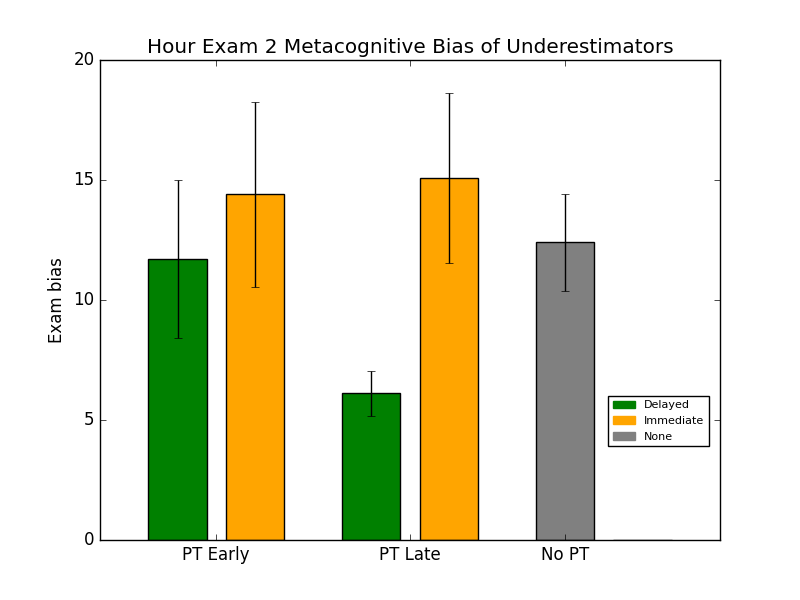
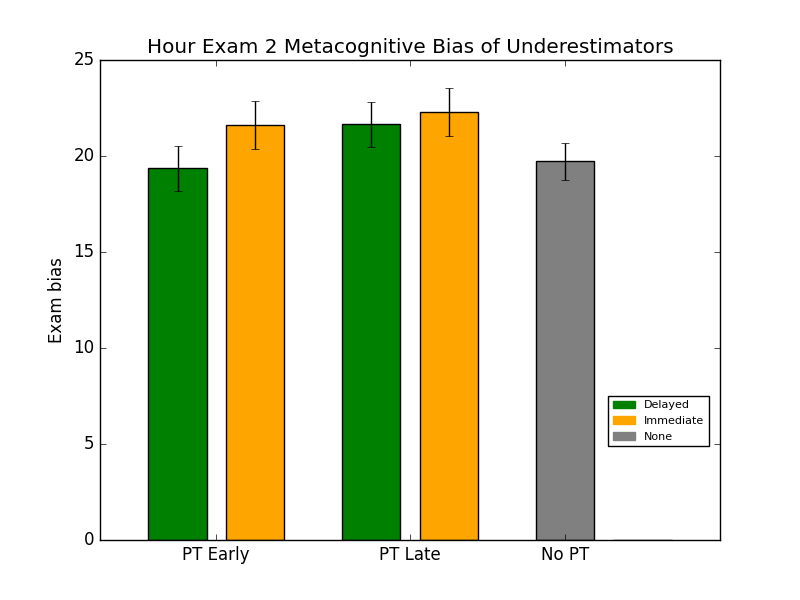
Added filtered results

diff --git a/source/bias_filtered.py b/source/bias_filtered.py
@@ -1,0 +1,143 @@
+import csv  # to read csv files
+import numpy as np  # to use statistics functions
+import matplotlib.pyplot as plt
+import matplotlib.patches as mpatches
+import scipy
+import pandas as pd
+from scipy import stats
+
+# Data
+delayed_feedback_early_bias = []
+delayed_feedback_late_bias = []
+no_feedback_bias = []
+immediate_feeback_early_bias = []
+immediate_feeback_late_bias = []
+
+# Constants
+early_time = -24
+exam2_path = "../data/Sp21_Physics_211_HE2_data.csv"
+exam3_path = "../data/Sp21_Physics_211_HE3_data.csv"
+
+def store_file_data(path): # Opens the CSV Data and Stores the Returns the Data as a List
+	with open(path) as file:
+		reader = csv.reader(file)
+		r_list = [r for r in reader]  # convert csv file to a python list
+		labels = r_list.pop(0)
+	return r_list
+
+def parse_file(): # Dividing the Data into appropriate bins
+	for row in r_list:
+		if row[1] != "NULL" and row[1] != "EX" and row[3] != "NULL": # Why are the EX's?
+			if row[8] == "NULL":
+				if float(row[3]) > 100: # This is for typos with extra zeros
+						row[3] = 100
+				if float(row[1]) - float(row[3]) > 0:
+					no_feedback_bias.append(abs(float(row[1]) - float(row[3])))
+			elif float(row[8]) <= early_time:
+				if float(row[3]) > 100: # This is for typos with extra zeros
+						row[3] = 100
+
+				if float(row[1]) - float(row[3]) > 0:
+					if int(row[5]) == 1:
+						delayed_feedback_early_bias.append(abs(float(row[1]) - float(row[3])))
+					else:
+						immediate_feeback_early_bias.append(abs(float(row[1]) - float(row[3])))
+			elif float(row[8]) < 0: # Sometimes students finish practice after exam time?
+				if float(row[3]) > 100: # This is for typos with extra zeros
+						row[3] = 100
+
+				if float(row[1]) - float(row[3]) > 0:
+					if int(row[5]) == 1:
+						delayed_feedback_late_bias.append(abs(float(row[1]) - float(row[3])))
+					else:
+						immediate_feeback_late_bias.append(abs(float(row[1]) - float(row[3])))
+
+def draw_graph(name): # Drawing Hour Exam 2 Score by Feedback
+	# Calculating the Means
+	delayed_means = [np.mean(delayed_feedback_early_bias), np.mean(delayed_feedback_late_bias)]
+	immediate_means = [np.mean(immediate_feeback_early_bias), np.mean(immediate_feeback_late_bias)]
+	no_means = [np.mean(no_feedback_bias)]
+
+	# Calculating the Error Bars
+	delayed_errors = [stats.sem(delayed_feedback_early_bias), stats.sem(delayed_feedback_late_bias)]
+	immediate_errors = [stats.sem(immediate_feeback_early_bias), stats.sem(immediate_feeback_late_bias)]
+	no_errors = [stats.sem(no_feedback_bias)]
+
+	# print(delayed_means)
+	# print()
+	# print(immediate_means)
+	# print()
+	# print(no_means)
+
+	# Drawing the Bars
+	plt.style.use('classic')
+	plt.bar([1, 1.25], delayed_means, width=0.075, color='green', yerr=delayed_errors)
+	plt.bar([1.1, 1.35], immediate_means, width=0.075, color='orange', yerr=immediate_errors)
+	plt.bar([1.5], no_means, width=0.075, color='gray', yerr=no_errors)
+	plt.bar([1.6], 0, width=0.075, color='gray') # Needed to Expand the Graph
+
+	# Labeling the Graph
+	plt.ylabel("Exam bias")
+	labels = ["PT Early", "PT Late", "No PT"]
+	plt.xticks([1.05, 1.3, 1.5], labels)
+	plt.title(name)
+
+	# Creating the Color Ledgend
+	green_patch = mpatches.Patch(color='green', label='Delayed')
+	orange_patch = mpatches.Patch(color='orange', label='Immediate')
+	gray_patch = mpatches.Patch(color='gray', label='None')
+	plt.legend(bbox_to_anchor=(0.82, 0.3), loc='upper left', borderaxespad=0, handles=[green_patch, orange_patch, gray_patch], prop={"size":8})
+
+	plt.savefig("../graphs/" + name + ".png")
+	plt.show()
+
+def clear_lists():
+	delayed_feedback_early_bias.clear()
+	delayed_feedback_late_bias.clear()
+	immediate_feeback_early_bias.clear()
+	immediate_feeback_late_bias.clear()
+	no_feedback_bias.clear()
+
+def remove_outliers():
+	outside = np.mean(delayed_feedback_early_bias) + 2 * np.std(delayed_feedback_early_bias)
+	for i in range(len(delayed_feedback_early_bias)):
+		if delayed_feedback_early_bias[len(delayed_feedback_early_bias) - i - 1] > outside:
+			delayed_feedback_early_bias.remove(delayed_feedback_early_bias[len(delayed_feedback_early_bias) - i - 1])
+
+	outside = np.mean(delayed_feedback_late_bias) + 2 * np.std(delayed_feedback_late_bias)
+	for i in range(len(delayed_feedback_late_bias)):
+		if delayed_feedback_late_bias[len(delayed_feedback_late_bias) - i - 1] > outside:
+			delayed_feedback_late_bias.remove(delayed_feedback_late_bias[len(delayed_feedback_late_bias) - i - 1])
+
+	outside = np.mean(immediate_feeback_early_bias) + 2 * np.std(immediate_feeback_early_bias)
+	for i in range(len(immediate_feeback_early_bias)):
+		if immediate_feeback_early_bias[len(immediate_feeback_early_bias) - i - 1] > outside:
+			immediate_feeback_early_bias.remove(immediate_feeback_early_bias[len(immediate_feeback_early_bias) - i - 1])
+
+	outside = np.mean(immediate_feeback_late_bias) + 2 * np.std(immediate_feeback_late_bias)
+	for i in range(len(immediate_feeback_late_bias)):
+		if immediate_feeback_late_bias[len(immediate_feeback_late_bias) - i - 1] > outside:
+			immediate_feeback_late_bias.remove(immediate_feeback_late_bias[len(immediate_feeback_late_bias) - i - 1])
+
+	outside = np.mean(no_feedback_bias) + 2 * np.std(no_feedback_bias)
+	for i in range(len(no_feedback_bias)):
+		if no_feedback_bias[len(no_feedback_bias) - i - 1] > outside:
+			no_feedback_bias.remove(no_feedback_bias[len(no_feedback_bias) - i - 1])
+
+r_list = store_file_data(exam2_path)
+parse_file()
+remove_outliers()
+draw_graph("Filtered Hour Exam 2 Metacognitive Bias of Underestimators")
+clear_lists()
+
+r_list = store_file_data(exam3_path)
+parse_file()
+remove_outliers()
+draw_graph("Filtered Hour Exam 3 Metacognitive Bias of Underestimators")
+
+# print()
+# print(len(delayed_feedback_early_bias))
+# print(len(immediate_feeback_early_bias))
+# print(len(delayed_feedback_late_bias))
+# print(len(immediate_feeback_late_bias))
+# print(len(no_feedback_bias))

diff --git a/source/examscore.py b/source/examscore.py
@@ -77,7 +77,7 @@ def draw_graph(name): # Drawing Hour Exam 2 Score by Feedback
 	gray_patch = mpatches.Patch(color='gray', label='None')
 	plt.legend(bbox_to_anchor=(0.82, 0.3), loc='upper left', borderaxespad=0, handles=[green_patch, orange_patch, gray_patch], prop={"size":8})
 
-	plt.savefig("../graphs/" + name + ".png")
+	# plt.savefig("../graphs/" + name + ".png")
 	plt.show()
 
 def clear_lists():
